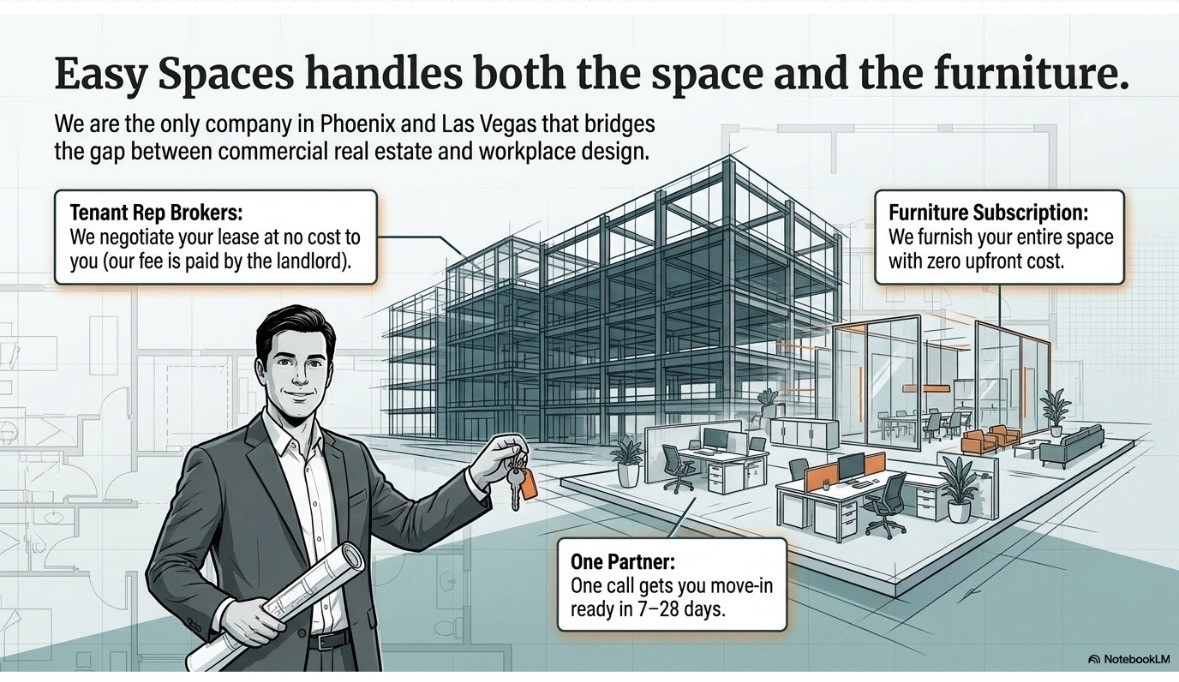
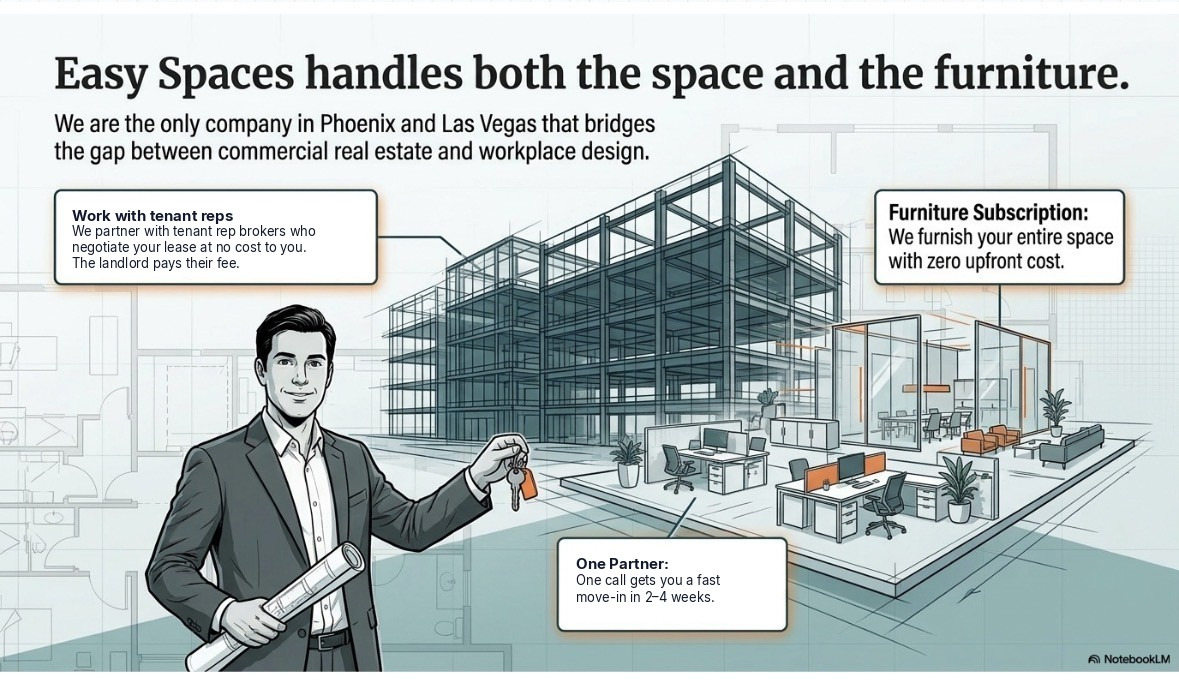
Apply approved wording for partners, title, timing, and markets.
Tenant representation is partner language, Jason is President, move-in is 2-4 weeks, and San Diego stays coming soon only.

Changed region(s): [[0.0611, 0.2771, 0.3053, 0.4003], [0.4885, 0.8006, 0.6718, 0.9238]]

diff --git a/obc-upload/index.html b/obc-upload/index.html
@@ -18,7 +18,7 @@
   <!-- Twitter Card -->
   <meta name="twitter:card" content="summary_large_image" />
   <meta name="twitter:title" content="Office Furniture Phoenix &amp; Las Vegas Cost Calculator | Easy Spaces" />
-  <meta name="twitter:description" content="Free calculator for Phoenix &amp; Las Vegas office furniture costs. From $349/month, move-in ready in 7–28 days." />
+  <meta name="twitter:description" content="Free calculator for Phoenix &amp; Las Vegas office furniture costs. From $349/month, with fast move-in in 2–4 weeks." />
   <meta name="twitter:image" content="https://d8j0ntlcm91z4.cloudfront.net/user_3GsA31Z3eRAlWJgYCapkArEvSTP/hf_20260831_214707_02c96125-706b-4d26-a617-110c1a62c539.png" />
   <!-- Favicon -->
   <link rel="icon" href="/favicon.svg" type="image/svg+xml" />
@@ -74,8 +74,8 @@
       "url": "https://easyspaces.info",
       "telephone": "+14803821171",
       "email": "sales@easyspaces.info",
-      "description": "Office furniture subscription and commercial real estate tenant representation for Phoenix and Las Vegas businesses.",
-      "areaServed": ["Phoenix, AZ", "Las Vegas, NV", "Gilbert, AZ", "Scottsdale, AZ", "San Diego, CA"],
+      "description": "Office furniture subscriptions and commercial real estate advisory for Phoenix and Las Vegas businesses.",
+      "areaServed": ["Phoenix, AZ", "Las Vegas, NV"],
       "priceRange": "$$",
       "sameAs": ["https://officebudgetcalculator.com/"]
     },
@@ -85,8 +85,8 @@
       "mainEntity": [
         { "@type": "Question", "name": "How much does office furniture cost in Phoenix?", "acceptedAnswer": { "@type": "Answer", "text": "Based on 1,833+ installations across the Phoenix Metro, purchasing office furniture averages $20 per square foot. A 3,000 sq ft office typically costs $60,000 to furnish outright. With an Easy Spaces subscription, that same space runs $0.35–$0.87 per square foot per month depending on term length, with zero upfront cost." } },
         { "@type": "Question", "name": "Is office furniture rental cheaper than buying?", "acceptedAnswer": { "@type": "Answer", "text": "For most growing businesses, a subscription is significantly cheaper in the first 2–5 years because there is no upfront capital expense. Easy Spaces subscriptions start at $349/month and include delivery, setup, and free removal at lease end." } },
-        { "@type": "Question", "name": "How fast can I get a furnished office in Las Vegas?", "acceptedAnswer": { "@type": "Answer", "text": "Easy Spaces delivers fully furnished offices in 7–28 days in the Las Vegas Metro. This includes space planning, 2D/3D renderings, delivery, installation, and white-glove setup." } },
-        { "@type": "Question", "name": "What is tenant rep and does it cost anything?", "acceptedAnswer": { "@type": "Answer", "text": "Tenant representation means Easy Spaces negotiates your office lease on your behalf. The service is completely free to you — the landlord pays our fee. We help you find the right space and align your lease term with your furniture subscription." } }
+        { "@type": "Question", "name": "How fast can I get a furnished office in Las Vegas?", "acceptedAnswer": { "@type": "Answer", "text": "Easy Spaces delivers fully furnished offices with a fast move-in in 2–4 weeks in the Las Vegas Metro. This includes space planning, 2D/3D renderings, delivery, installation, and white-glove setup." } },
+        { "@type": "Question", "name": "What is tenant rep and does it cost anything?", "acceptedAnswer": { "@type": "Answer", "text": "We work with tenant rep brokers who negotiate your office lease on your behalf. The service is completely free to you. The landlord pays their fee. We help you find the right space and align your lease term with your furniture subscription." } }
       ]
     }
   ]
@@ -396,8 +396,8 @@
         <p style="font-size:0.75rem;color:rgba(255,255,255,0.75);margin-top:0.25rem;">Starting at /month</p>
       </div>
       <div style="padding:1.25rem 1rem;text-align:center;border-right:1px solid rgba(255,255,255,0.15);">
-        <p style="font-family:'Barlow',sans-serif;font-weight:900;font-size:1.875rem;color:white;line-height:1.1;">7–28</p>
-        <p style="font-size:0.75rem;color:rgba(255,255,255,0.75);margin-top:0.25rem;">Days to move-in ready</p>
+        <p style="font-family:'Barlow',sans-serif;font-weight:900;font-size:1.875rem;color:white;line-height:1.1;">2–4</p>
+        <p style="font-size:0.75rem;color:rgba(255,255,255,0.75);margin-top:0.25rem;">Weeks to move in</p>
       </div>
       <div style="padding:1.25rem 1rem;text-align:center;border-right:1px solid rgba(255,255,255,0.15);">
         <p style="font-family:'Barlow',sans-serif;font-weight:900;font-size:1.875rem;color:white;line-height:1.1;">26,923+</p>
@@ -457,7 +457,7 @@
           We're the only company in Phoenix and Las Vegas that helps you find the right office space AND gets it fully furnished before your team walks in on day one.
         </p>
         <p style="color:#374151;line-height:1.75;margin-bottom:2rem;">
-          As licensed tenant rep brokers we negotiate your lease on your behalf, at no cost to you. Then we furnish your entire space through our flexible subscription so you're not writing a massive check before you've made a single dollar in your new office.
+          We partner with tenant rep brokers who negotiate your lease on your behalf, at no cost to you. Then we furnish your entire space through our flexible subscription so you're not writing a massive check before you've made a single dollar in your new office.
         </p>
         <p style="font-size:1.125rem;font-weight:700;color:#1B7A7A;font-family:'Barlow',sans-serif;">
           One company. One call. Fully move-in ready.
@@ -466,7 +466,7 @@
       <div class="reveal" style="position:relative;border-radius:1rem;overflow:hidden;aspect-ratio:1179/682;box-shadow:0 4px 24px rgba(0,0,0,0.1);">
         <picture>
           <source srcset="assets/office-setup.webp" type="image/webp" />
-          <img src="assets/office-setup.jpg" alt="Easy Spaces handles both the space and the furniture - tenant rep brokers negotiate your lease at no cost, furniture subscription furnishes your space with zero upfront cost, one partner gets you move-in ready in 7-28 days" style="width:100%;height:100%;object-fit:contain;background:white;" loading="lazy" width="1179" height="682" />
+          <img src="assets/office-setup.jpg" alt="Three-panel graphic: work with tenant reps at no cost to you, a furniture subscription with zero upfront cost, and one partner for a fast move-in in 2–4 weeks." style="width:100%;height:100%;object-fit:contain;background:white;" loading="lazy" width="1179" height="682" />
         </picture>
       </div>
     </div>
@@ -652,7 +652,7 @@
     <!-- Post-calculator CTA -->
     <div style="text-align:center;margin-top:3rem;" class="reveal">
       <h3 class="es-subheadline" style="color:white;font-size:1.5rem;margin-bottom:0.5rem;">Get a Free Consultation from One of Our Specialists</h3>
-      <p style="color:rgba(255,255,255,0.7);margin-bottom:0.5rem;max-width:32rem;margin-left:auto;margin-right:auto;line-height:1.7;">Your numbers are ready. Now let's make them real. Our licensed tenant rep brokers will review your results, validate your budget, and help you find the right space - at no cost to you.</p>
+      <p style="color:rgba(255,255,255,0.7);margin-bottom:0.5rem;max-width:32rem;margin-left:auto;margin-right:auto;line-height:1.7;">Your numbers are ready. Now let's make them real. We work with tenant reps who will review your results, validate your budget, and help you find the right space, at no cost to you.</p>
       <p style="color:rgba(255,255,255,0.5);font-size:0.875rem;font-style:italic;max-width:28rem;margin:0 auto 1.5rem;line-height:1.6;">Phoenix and Las Vegas office space moves fast. The sooner we connect, the more options you'll have.</p>
       <div style="display:flex;flex-wrap:wrap;gap:1rem;justify-content:center;">
         <a href="https://calendly.com/interioravenue/website-inquiry" target="_blank" rel="noopener noreferrer" class="es-btn-primary">
@@ -711,8 +711,8 @@
               <svg width="20" height="20" viewBox="0 0 24 24" fill="none" stroke="currentColor" stroke-width="2" stroke-linecap="round" stroke-linejoin="round"><path d="M3 9l9-7 9 7v11a2 2 0 01-2 2H5a2 2 0 01-2-2z"/><polyline points="9 22 9 12 15 12 15 22"/></svg>
             </div>
             <div>
-              <p style="font-family:'Barlow',sans-serif;font-weight:700;font-size:0.95rem;color:white;margin-bottom:0.25rem;">Tenant Rep at No Cost</p>
-              <p style="font-size:0.85rem;color:rgba(255,255,255,0.65);line-height:1.6;">As licensed tenant rep brokers, we negotiate your lease on your behalf. Our fee is paid by the landlord - you pay nothing.</p>
+              <p style="font-family:'Barlow',sans-serif;font-weight:700;font-size:0.95rem;color:white;margin-bottom:0.25rem;">Tenant Rep Partners, at No Cost</p>
+              <p style="font-size:0.85rem;color:rgba(255,255,255,0.65);line-height:1.6;">We partner with tenant rep brokers who negotiate your lease on your behalf. Their fee is paid by the landlord, and you pay nothing.</p>
             </div>
           </div>
           <div style="display:flex;gap:1rem;">
@@ -729,7 +729,7 @@
           <div style="width:44px;height:44px;border-radius:50%;background:#E8621A;display:flex;align-items:center;justify-content:center;font-family:'Barlow',sans-serif;font-weight:900;color:white;font-size:1.1rem;">JB</div>
           <div>
             <p style="font-family:'Barlow',sans-serif;font-weight:700;font-size:0.9rem;color:white;">Jason Bowman</p>
-            <p style="font-size:0.8rem;color:rgba(255,255,255,0.55);">Founder, Easy Spaces</p>
+            <p style="font-size:0.8rem;color:rgba(255,255,255,0.55);">President, Easy Spaces</p>
           </div>
         </div>
       </div>
@@ -855,7 +855,7 @@
         </div>
         <p style="font-family:'Barlow',sans-serif;font-weight:900;font-size:2rem;color:rgba(27,122,122,0.15);line-height:1;margin-bottom:0.5rem;">02</p>
         <h3 style="font-family:'Barlow',sans-serif;font-weight:800;font-size:1rem;color:#12192C;margin-bottom:0.75rem;">We Find Your Space</h3>
-        <p style="font-size:0.875rem;color:#6B7280;line-height:1.65;">We search the Phoenix and Las Vegas markets, present you with the best options, and negotiate your lease on your behalf. Our tenant rep service costs you nothing.</p>
+        <p style="font-size:0.875rem;color:#6B7280;line-height:1.65;">We search the Phoenix and Las Vegas markets and present the best options. We partner with tenant rep brokers, and that representation costs you nothing.</p>
       </div>
       <div class="reveal" style="background:white;border-radius:1rem;padding:1.5rem;text-align:center;box-shadow:0 2px 12px rgba(0,0,0,0.06);">
         <div style="width:56px;height:56px;border-radius:50%;background:#1B7A7A;display:flex;align-items:center;justify-content:center;margin:0 auto 1rem;color:white;">
@@ -1005,7 +1005,7 @@
           <h3 style="font-family:'Barlow',sans-serif;font-weight:900;color:#12192C;font-size:1.2rem;line-height:1.3;margin-bottom:1rem;">CRE Landlord Leases Vacant Space 3x Faster with Furnished Option</h3>
           <p style="font-size:0.875rem;color:#6B7280;line-height:1.75;margin-bottom:1.5rem;">A Las Vegas property manager had a 4,200 sq ft suite sitting vacant for 7 months. After partnering with Easy Spaces to offer a fully furnished lease option, they had a signed tenant within 18 days. The furnished presentation eliminated the tenant's furniture procurement barrier entirely - the deal closed at asking rate with no concessions.</p>
           <div class="grid-3" style="gap:0.75rem;">
-            <div style="background:#F4F6F8;border-radius:0.75rem;padding:0.75rem;text-align:center;"><p style="font-family:'Barlow',sans-serif;font-weight:900;font-size:1.125rem;color:#1B7A7A;line-height:1.1;">18 Days</p><p style="font-size:0.75rem;color:#9CA3AF;margin-top:0.25rem;">Vacancy Duration</p></div>
+            <div style="background:#F4F6F8;border-radius:0.75rem;padding:0.75rem;text-align:center;"><p style="font-family:'Barlow',sans-serif;font-weight:900;font-size:1.125rem;color:#1B7A7A;line-height:1.1;">18 Days</p><p style="font-size:0.75rem;color:#9CA3AF;margin-top:0.25rem;">Time to signed tenant</p></div>
             <div style="background:#F4F6F8;border-radius:0.75rem;padding:0.75rem;text-align:center;"><p style="font-family:'Barlow',sans-serif;font-weight:900;font-size:1.125rem;color:#1B7A7A;line-height:1.1;">$0</p><p style="font-size:0.75rem;color:#9CA3AF;margin-top:0.25rem;">Concessions Given</p></div>
             <div style="background:#F4F6F8;border-radius:0.75rem;padding:0.75rem;text-align:center;"><p style="font-family:'Barlow',sans-serif;font-weight:900;font-size:1.125rem;color:#1B7A7A;line-height:1.1;">Full Ask</p><p style="font-size:0.75rem;color:#9CA3AF;margin-top:0.25rem;">Lease Rate</p></div>
           </div>
@@ -1072,7 +1072,7 @@
         Stop overpaying. Stop waiting. Stop juggling vendors. One call with Easy Spaces changes everything.
       </p>
       <p style="color:rgba(255,255,255,0.5);font-size:0.875rem;margin-bottom:2.5rem;max-width:400px;margin-left:auto;margin-right:auto;">
-        Subscriptions from $349/month. Move-in ready in 7–28 days. Zero upfront cost.
+        Subscriptions from $349/month. Move in fast, in 2–4 weeks. Zero upfront cost.
       </p>
       <div style="display:flex;flex-wrap:wrap;gap:1rem;justify-content:center;">
         <a href="https://calendly.com/interioravenue/website-inquiry" target="_blank" rel="noopener noreferrer" class="es-btn-primary" style="font-size:1.05rem;padding:1rem 2rem;">
@@ -1099,13 +1099,13 @@
         <img src="https://d2xsxph8kpxj0f.cloudfront.net/manus-storage/LogoEasySpaces_ced81977.png" alt="Easy Spaces" style="height:44px;width:auto;margin-bottom:1rem;" onerror="this.style.display='none'" />
         <p style="color:rgba(255,255,255,0.55);font-size:0.875rem;line-height:1.7;margin-bottom:1rem;">Furnish Your Growth. Office furniture subscriptions and commercial real estate advisory for Phoenix and Las Vegas businesses.</p>
         <p style="font-family:'Barlow',sans-serif;font-weight:700;font-size:0.8rem;color:rgba(255,255,255,0.35);text-transform:uppercase;letter-spacing:0.1em;">Locations</p>
-        <p style="color:rgba(255,255,255,0.55);font-size:0.875rem;margin-top:0.25rem;">Gilbert, AZ · Phoenix, AZ · Las Vegas, NV · San Diego, CA</p>
+        <p style="color:rgba(255,255,255,0.55);font-size:0.875rem;margin-top:0.25rem;">Gilbert, AZ · Phoenix, AZ · Las Vegas, NV</p>
       </div>
       <div>
         <p style="font-family:'Barlow',sans-serif;font-weight:700;font-size:0.8rem;color:rgba(255,255,255,0.35);text-transform:uppercase;letter-spacing:0.1em;margin-bottom:1rem;">Services</p>
         <div style="display:flex;flex-direction:column;gap:0.5rem;">
           <a href="https://calendly.com/interioravenue/website-inquiry" target="_blank" rel="noopener noreferrer" style="color:rgba(255,255,255,0.55);font-size:0.875rem;transition:color 150ms;">Office Furniture Subscription</a>
-          <a href="https://calendly.com/interioravenue/website-inquiry" target="_blank" rel="noopener noreferrer" style="color:rgba(255,255,255,0.55);font-size:0.875rem;transition:color 150ms;">Tenant Rep / Lease Negotiation</a>
+          <a href="https://calendly.com/interioravenue/website-inquiry" target="_blank" rel="noopener noreferrer" style="color:rgba(255,255,255,0.55);font-size:0.875rem;transition:color 150ms;">Tenant Rep Partners</a>
           <a href="https://calendly.com/interioravenue/website-inquiry" target="_blank" rel="noopener noreferrer" style="color:rgba(255,255,255,0.55);font-size:0.875rem;transition:color 150ms;">Space Planning &amp; 3D Renderings</a>
           <a href="https://calendly.com/interioravenue/website-inquiry" target="_blank" rel="noopener noreferrer" style="color:rgba(255,255,255,0.55);font-size:0.875rem;transition:color 150ms;">Furnished Lease Solutions for Landlords</a>
           <a href="https://calendly.com/interioravenue/website-inquiry" target="_blank" rel="noopener noreferrer" style="color:rgba(255,255,255,0.55);font-size:0.875rem;transition:color 150ms;">Office Relocation Services</a>
@@ -1135,7 +1135,7 @@
         <a href="/privacy/" style="color:rgba(255,255,255,0.4);font-size:0.8rem;">Privacy Policy</a>
         <a href="/terms/" style="color:rgba(255,255,255,0.4);font-size:0.8rem;">Terms &amp; Disclaimer</a>
       </div>
-      <p style="color:rgba(255,255,255,0.3);font-size:0.8rem;">Phoenix · Las Vegas · Gilbert · San Diego</p>
+      <p style="color:rgba(255,255,255,0.3);font-size:0.8rem;">Phoenix · Las Vegas · Gilbert</p>
     </div>
   </div>
 </footer>

diff --git a/index.html b/index.html
@@ -21,7 +21,7 @@
   <!-- Twitter Card -->
   <meta name="twitter:card" content="summary_large_image" />
   <meta name="twitter:title" content="Office Furniture Phoenix &amp; Las Vegas Cost Calculator | Easy Spaces" />
-  <meta name="twitter:description" content="Free calculator for Phoenix &amp; Las Vegas office furniture costs. From $349/month, move-in ready in 7–28 days." />
+  <meta name="twitter:description" content="Free calculator for Phoenix &amp; Las Vegas office furniture costs. From $349/month, with fast move-in in 2–4 weeks." />
   <meta name="twitter:image" content="https://officebudgetcalculator.com/assets/og-image.jpg" />
   <meta name="twitter:image:alt" content="Easy Spaces office furniture cost calculator for Phoenix and Las Vegas. Compare buying, rent-to-own, and subscription." />
   <!-- Favicon -->
@@ -69,7 +69,7 @@
         "telephone": "+14803821171",
         "email": "sales@easyspaces.info",
         "description": "Office furniture subscriptions and commercial real estate advisory for Phoenix and Las Vegas businesses.",
-        "areaServed": ["Phoenix, AZ", "Gilbert, AZ", "Las Vegas, NV", "San Diego, CA"],
+        "areaServed": ["Phoenix, AZ", "Las Vegas, NV"],
         "logo": {
           "@type": "ImageObject",
           "url": "https://officebudgetcalculator.com/assets/apple-touch-icon.png",
@@ -421,8 +421,8 @@
         <p style="font-size:0.75rem;color:rgba(255,255,255,0.75);margin-top:0.25rem;">Starting at /month</p>
       </div>
       <div style="padding:1.25rem 1rem;text-align:center;border-right:1px solid rgba(255,255,255,0.15);">
-        <p style="font-family:'Barlow',sans-serif;font-weight:900;font-size:1.875rem;color:white;line-height:1.1;">7–28</p>
-        <p style="font-size:0.75rem;color:rgba(255,255,255,0.75);margin-top:0.25rem;">Days to move-in ready</p>
+        <p style="font-family:'Barlow',sans-serif;font-weight:900;font-size:1.875rem;color:white;line-height:1.1;">2–4</p>
+        <p style="font-size:0.75rem;color:rgba(255,255,255,0.75);margin-top:0.25rem;">Weeks to move in</p>
       </div>
       <div style="padding:1.25rem 1rem;text-align:center;border-right:1px solid rgba(255,255,255,0.15);">
         <p style="font-family:'Barlow',sans-serif;font-weight:900;font-size:1.875rem;color:white;line-height:1.1;">26,923+</p>
@@ -482,7 +482,7 @@
           We're the only company in Phoenix and Las Vegas that helps you find the right office space AND gets it fully furnished before your team walks in on day one.
         </p>
         <p style="color:#374151;line-height:1.75;margin-bottom:2rem;">
-          As licensed tenant rep brokers we negotiate your lease on your behalf, at no cost to you. Then we furnish your entire space through our flexible subscription so you're not writing a massive check before you've made a single dollar in your new office.
+          We partner with tenant rep brokers who negotiate your lease on your behalf, at no cost to you. Then we furnish your entire space through our flexible subscription so you're not writing a massive check before you've made a single dollar in your new office.
         </p>
         <p style="font-size:1.125rem;font-weight:700;color:#1B7A7A;font-family:'Barlow',sans-serif;">
           One company. One call. Fully move-in ready.
@@ -491,7 +491,7 @@
       <div class="reveal" style="position:relative;border-radius:1rem;overflow:hidden;aspect-ratio:1179/682;box-shadow:0 4px 24px rgba(0,0,0,0.1);">
         <picture>
           <source srcset="assets/office-setup.webp" type="image/webp" />
-          <img src="assets/office-setup.jpg" alt="Three-panel graphic: work with tenant reps at no cost to you, a furniture subscription with zero upfront cost, and one partner for move-in in 7-28 days." style="width:100%;height:100%;object-fit:contain;background:white;" loading="lazy" width="1179" height="682" />
+          <img src="assets/office-setup.jpg" alt="Three-panel graphic: work with tenant reps at no cost to you, a furniture subscription with zero upfront cost, and one partner for a fast move-in in 2–4 weeks." style="width:100%;height:100%;object-fit:contain;background:white;" loading="lazy" width="1179" height="682" />
         </picture>
       </div>
     </div>
@@ -677,7 +677,7 @@
     <!-- Post-calculator CTA -->
     <div style="text-align:center;margin-top:3rem;" class="reveal">
       <h3 class="es-subheadline" style="color:white;font-size:1.5rem;margin-bottom:0.5rem;">Get a Free Consultation from One of Our Specialists</h3>
-      <p style="color:rgba(255,255,255,0.7);margin-bottom:0.5rem;max-width:32rem;margin-left:auto;margin-right:auto;line-height:1.7;">Your numbers are ready. Now let's make them real. Our licensed tenant rep brokers will review your results, validate your budget, and help you find the right space - at no cost to you.</p>
+      <p style="color:rgba(255,255,255,0.7);margin-bottom:0.5rem;max-width:32rem;margin-left:auto;margin-right:auto;line-height:1.7;">Your numbers are ready. Now let's make them real. We work with tenant reps who will review your results, validate your budget, and help you find the right space, at no cost to you.</p>
       <p style="color:rgba(255,255,255,0.5);font-size:0.875rem;font-style:italic;max-width:28rem;margin:0 auto 1.5rem;line-height:1.6;">Phoenix and Las Vegas office space moves fast. The sooner we connect, the more options you'll have.</p>
       <div style="display:flex;flex-wrap:wrap;gap:1rem;justify-content:center;">
         <a href="https://calendly.com/interioravenue/website-inquiry" target="_blank" rel="noopener noreferrer" class="es-btn-primary">
@@ -736,8 +736,8 @@
               <svg width="20" height="20" viewBox="0 0 24 24" fill="none" stroke="currentColor" stroke-width="2" stroke-linecap="round" stroke-linejoin="round"><path d="M3 9l9-7 9 7v11a2 2 0 01-2 2H5a2 2 0 01-2-2z"/><polyline points="9 22 9 12 15 12 15 22"/></svg>
             </div>
             <div>
-              <p style="font-family:'Barlow',sans-serif;font-weight:700;font-size:0.95rem;color:white;margin-bottom:0.25rem;">Tenant Rep at No Cost</p>
-              <p style="font-size:0.85rem;color:rgba(255,255,255,0.65);line-height:1.6;">As licensed tenant rep brokers, we negotiate your lease on your behalf. Our fee is paid by the landlord - you pay nothing.</p>
+              <p style="font-family:'Barlow',sans-serif;font-weight:700;font-size:0.95rem;color:white;margin-bottom:0.25rem;">Tenant Rep Partners, at No Cost</p>
+              <p style="font-size:0.85rem;color:rgba(255,255,255,0.65);line-height:1.6;">We partner with tenant rep brokers who negotiate your lease on your behalf. Their fee is paid by the landlord, and you pay nothing.</p>
             </div>
           </div>
           <div style="display:flex;gap:1rem;">
@@ -754,7 +754,7 @@
           <div style="width:44px;height:44px;border-radius:50%;background:#E8621A;display:flex;align-items:center;justify-content:center;font-family:'Barlow',sans-serif;font-weight:900;color:white;font-size:1.1rem;">JB</div>
           <div>
             <p style="font-family:'Barlow',sans-serif;font-weight:700;font-size:0.9rem;color:white;">Jason Bowman</p>
-            <p style="font-size:0.8rem;color:rgba(255,255,255,0.55);">Founder, Easy Spaces</p>
+            <p style="font-size:0.8rem;color:rgba(255,255,255,0.55);">President, Easy Spaces</p>
           </div>
         </div>
       </div>
@@ -880,7 +880,7 @@
         </div>
         <p style="font-family:'Barlow',sans-serif;font-weight:900;font-size:2rem;color:rgba(27,122,122,0.15);line-height:1;margin-bottom:0.5rem;">02</p>
         <h3 style="font-family:'Barlow',sans-serif;font-weight:800;font-size:1rem;color:#12192C;margin-bottom:0.75rem;">We Find Your Space</h3>
-        <p style="font-size:0.875rem;color:#6B7280;line-height:1.65;">We search the Phoenix and Las Vegas markets, present you with the best options, and negotiate your lease on your behalf. Our tenant rep service costs you nothing.</p>
+        <p style="font-size:0.875rem;color:#6B7280;line-height:1.65;">We search the Phoenix and Las Vegas markets and present the best options. We partner with tenant rep brokers, and that representation costs you nothing.</p>
       </div>
       <div class="reveal" style="background:white;border-radius:1rem;padding:1.5rem;text-align:center;box-shadow:0 2px 12px rgba(0,0,0,0.06);">
         <div style="width:56px;height:56px;border-radius:50%;background:#1B7A7A;display:flex;align-items:center;justify-content:center;margin:0 auto 1rem;color:white;">
@@ -1030,7 +1030,7 @@
           <h3 style="font-family:'Barlow',sans-serif;font-weight:900;color:#12192C;font-size:1.2rem;line-height:1.3;margin-bottom:1rem;">CRE Landlord Leases Vacant Space 3x Faster with Furnished Option</h3>
           <p style="font-size:0.875rem;color:#6B7280;line-height:1.75;margin-bottom:1.5rem;">A Las Vegas property manager had a 4,200 sq ft suite sitting vacant for 7 months. After partnering with Easy Spaces to offer a fully furnished lease option, they had a signed tenant within 18 days. The furnished presentation eliminated the tenant's furniture procurement barrier entirely - the deal closed at asking rate with no concessions.</p>
           <div class="grid-3" style="gap:0.75rem;">
-            <div style="background:#F4F6F8;border-radius:0.75rem;padding:0.75rem;text-align:center;"><p style="font-family:'Barlow',sans-serif;font-weight:900;font-size:1.125rem;color:#1B7A7A;line-height:1.1;">18 Days</p><p style="font-size:0.75rem;color:#4B5563;margin-top:0.25rem;">Vacancy Duration</p></div>
+            <div style="background:#F4F6F8;border-radius:0.75rem;padding:0.75rem;text-align:center;"><p style="font-family:'Barlow',sans-serif;font-weight:900;font-size:1.125rem;color:#1B7A7A;line-height:1.1;">18 Days</p><p style="font-size:0.75rem;color:#4B5563;margin-top:0.25rem;">Time to signed tenant</p></div>
             <div style="background:#F4F6F8;border-radius:0.75rem;padding:0.75rem;text-align:center;"><p style="font-family:'Barlow',sans-serif;font-weight:900;font-size:1.125rem;color:#1B7A7A;line-height:1.1;">$0</p><p style="font-size:0.75rem;color:#4B5563;margin-top:0.25rem;">Concessions Given</p></div>
             <div style="background:#F4F6F8;border-radius:0.75rem;padding:0.75rem;text-align:center;"><p style="font-family:'Barlow',sans-serif;font-weight:900;font-size:1.125rem;color:#1B7A7A;line-height:1.1;">Full Ask</p><p style="font-size:0.75rem;color:#4B5563;margin-top:0.25rem;">Lease Rate</p></div>
           </div>
@@ -1097,7 +1097,7 @@
         Stop overpaying. Stop waiting. Stop juggling vendors. One call with Easy Spaces changes everything.
       </p>
       <p style="color:rgba(255,255,255,0.5);font-size:0.875rem;margin-bottom:2.5rem;max-width:400px;margin-left:auto;margin-right:auto;">
-        Subscriptions from $349/month. Move-in ready in 7–28 days. Zero upfront cost.
+        Subscriptions from $349/month. Move in fast, in 2–4 weeks. Zero upfront cost.
       </p>
       <div style="display:flex;flex-wrap:wrap;gap:1rem;justify-content:center;">
         <a href="https://calendly.com/interioravenue/website-inquiry" target="_blank" rel="noopener noreferrer" class="es-btn-primary" style="font-size:1.05rem;padding:1rem 2rem;">
@@ -1124,13 +1124,13 @@
         <img src="/assets/logo.svg" alt="Easy Spaces" width="190" height="40" style="height:40px;width:190px;margin-bottom:1rem;" />
         <p style="color:rgba(255,255,255,0.55);font-size:0.875rem;line-height:1.7;margin-bottom:1rem;">Furnish Your Growth. Office furniture subscriptions and commercial real estate advisory for Phoenix and Las Vegas businesses.</p>
         <p style="font-family:'Barlow',sans-serif;font-weight:700;font-size:0.8rem;color:rgba(255,255,255,0.35);text-transform:uppercase;letter-spacing:0.1em;">Locations</p>
-        <p style="color:rgba(255,255,255,0.55);font-size:0.875rem;margin-top:0.25rem;">Gilbert, AZ · Phoenix, AZ · Las Vegas, NV · San Diego, CA</p>
+        <p style="color:rgba(255,255,255,0.55);font-size:0.875rem;margin-top:0.25rem;">Gilbert, AZ · Phoenix, AZ · Las Vegas, NV</p>
       </div>
       <div>
         <p style="font-family:'Barlow',sans-serif;font-weight:700;font-size:0.8rem;color:rgba(255,255,255,0.35);text-transform:uppercase;letter-spacing:0.1em;margin-bottom:1rem;">Services</p>
         <div style="display:flex;flex-direction:column;gap:0.5rem;">
           <a href="https://calendly.com/interioravenue/website-inquiry" target="_blank" rel="noopener noreferrer" style="color:rgba(255,255,255,0.55);font-size:0.875rem;transition:color 150ms;">Office Furniture Subscription</a>
-          <a href="https://calendly.com/interioravenue/website-inquiry" target="_blank" rel="noopener noreferrer" style="color:rgba(255,255,255,0.55);font-size:0.875rem;transition:color 150ms;">Tenant Rep / Lease Negotiation</a>
+          <a href="https://calendly.com/interioravenue/website-inquiry" target="_blank" rel="noopener noreferrer" style="color:rgba(255,255,255,0.55);font-size:0.875rem;transition:color 150ms;">Tenant Rep Partners</a>
           <a href="https://calendly.com/interioravenue/website-inquiry" target="_blank" rel="noopener noreferrer" style="color:rgba(255,255,255,0.55);font-size:0.875rem;transition:color 150ms;">Space Planning &amp; 3D Renderings</a>
           <a href="https://calendly.com/interioravenue/website-inquiry" target="_blank" rel="noopener noreferrer" style="color:rgba(255,255,255,0.55);font-size:0.875rem;transition:color 150ms;">Furnished Lease Solutions for Landlords</a>
           <a href="https://calendly.com/interioravenue/website-inquiry" target="_blank" rel="noopener noreferrer" style="color:rgba(255,255,255,0.55);font-size:0.875rem;transition:color 150ms;">Office Relocation Services</a>
@@ -1160,7 +1160,7 @@
         <a href="/privacy/" style="color:rgba(255,255,255,0.4);font-size:0.8rem;">Privacy Policy</a>
         <a href="/terms/" style="color:rgba(255,255,255,0.4);font-size:0.8rem;">Terms &amp; Disclaimer</a>
       </div>
-      <p style="color:rgba(255,255,255,0.3);font-size:0.8rem;">Phoenix · Las Vegas · Gilbert · San Diego</p>
+      <p style="color:rgba(255,255,255,0.3);font-size:0.8rem;">Phoenix · Las Vegas · Gilbert</p>
     </div>
   </div>
 </footer>

diff --git a/obc-upload/terms/index.html b/obc-upload/terms/index.html
@@ -49,7 +49,7 @@
     <p>Any case studies, testimonials, or client results referenced on the Site describe specific past projects and are not a guarantee of similar results for your business.</p>
 
     <h2>No Professional Advice</h2>
-    <p>Nothing on the Site constitutes legal, financial, tax, or real estate advice. Tenant representation and lease negotiation services are provided under a separate written agreement with the relevant licensed brokerage; nothing on this Site creates a brokerage or agency relationship.</p>
+    <p>Nothing on the Site constitutes legal, financial, tax, or real estate advice. Tenant representation and lease negotiation services are provided by partner tenant rep brokers under a separate written agreement with those brokers. Nothing on this Site creates a brokerage or agency relationship.</p>
 
     <h2>Scheduling &amp; Third-Party Tools</h2>
     <p>Consultations are booked through Calendly, a third-party scheduling service. Your use of Calendly is subject to Calendly's own terms and privacy policy. Easy Spaces is not responsible for the availability or performance of third-party tools used on this Site.</p>

diff --git a/terms/index.html b/terms/index.html
@@ -62,7 +62,7 @@
     <p>Any case studies, testimonials, or client results referenced on the Site describe specific past projects and are not a guarantee of similar results for your business.</p>
 
     <h2>No Professional Advice</h2>
-    <p>Nothing on the Site constitutes legal, financial, tax, or real estate advice. Tenant representation and lease negotiation services are provided under a separate written agreement with the relevant licensed brokerage; nothing on this Site creates a brokerage or agency relationship.</p>
+    <p>Nothing on the Site constitutes legal, financial, tax, or real estate advice. Tenant representation and lease negotiation services are provided by partner tenant rep brokers under a separate written agreement with those brokers. Nothing on this Site creates a brokerage or agency relationship.</p>
 
     <h2>Scheduling &amp; Third-Party Tools</h2>
     <p>Consultations are booked through Calendly, a third-party scheduling service. Your use of Calendly is subject to Calendly's own terms and privacy policy. Easy Spaces is not responsible for the availability or performance of third-party tools used on this Site.</p>

diff --git a/SEO-AUDIT.md b/SEO-AUDIT.md
@@ -126,7 +126,7 @@ Examples under ~44px (320px unless noted):
 
 Lighthouse label audit: the range and number inputs are not tied to their visible labels with `for` / `id`.
 
-The solution image alt is a keyword sentence, not a description of the graphic. The graphic itself reads "Work with tenant reps", "Furniture subscription", and "7-28 days". The tracking pixel has no `alt`.
+The solution image alt is a keyword sentence, not a description of the graphic. The graphic itself had a move-in timing line that was later rewritten. The tracking pixel has no `alt`.
 
 ### Performance (Lighthouse 12, live URL, 2026-09-25)
 
@@ -178,18 +178,24 @@ No external anchor returned a 4xx or 5xx. The broken resource is the logo image.
 
 - Intentional `noindex` plus immediate redirect to the homepage. Leave the noindex in place. Keep them out of the sitemap.
 
-## Flagged for owner, not changed
+## Approved wording, applied
 
-- The page says move-in in **7–28 days** (stats bar, final CTA, image, Twitter description, FAQ schema). Preferred language supplied for this audit is "fast move-in in 2–4 weeks". Left as written.
-- Tenant-rep wording is inconsistent. Hero pill and the solution graphic say "Work with tenant reps". Other sentences say "As licensed tenant rep brokers we negotiate your lease" (solution section, calculator CTA, and the "What You Get Back" card). Terms say tenant representation is provided under a separate written agreement with the relevant licensed brokerage. Not rewritten.
-- Jason Bowman is labeled **Founder** on the page. New copy in this project uses **President** only. The visible title was not changed.
-- Footer lists San Diego as a location. The calculator lists San Diego as "Coming Soon".
-- Las Vegas case study label says "Vacancy Duration: 18 Days". The paragraph says the suite was vacant for 7 months and then leased within 18 days.
+Jason approved the wording items below. Applied on `index.html`, `terms/index.html`, the matching `obc-upload` copies, JSON-LD, Twitter text, image alt, and the solution graphic captions. Privacy has none of this text. Calculator math, prices, CTAs, and layout were not changed. GA4 ID `G-3MG1RK27XV` was left as written.
+
+- Tenant representation is now partner language: we work with tenant reps, and partner tenant rep brokers negotiate the lease. The landlord-paid fee stays, attributed to those partners. Terms say the same services are provided by partner tenant rep brokers under a separate written agreement, and the site creates no brokerage or agency relationship.
+- Jason Bowman is labeled President, Easy Spaces, including the card under his name. Don Brewer's testimonial still uses his own role title. That line does not label Jason.
+- Move-in timing is "fast move-in in 2–4 weeks". The stats bar reads "2–4" / "Weeks to move in". The solution graphic caption reads "One call gets you a fast move-in in 2–4 weeks."
+- San Diego is only the calculator option "San Diego — Coming Soon". It is off the footer location lines. JSON-LD `areaServed` is Phoenix, AZ and Las Vegas, NV only. Gilbert stays as a showroom location in the footer, not as a served market in schema. Scottsdale stays only as a testimonial city.
+- Las Vegas case study: the paragraph says the suite sat vacant for 7 months, then had a signed tenant within 18 days after a furnished-lease offer. The stat still says 18 Days. The caption is now "Time to signed tenant". Neither number changed.
+
+## Still flagged, not changed
+
 - "1,833+" is used both as installations and as "Desks Installed".
 - Brand orange `#E8621A` (white text about 3.39:1) and teal `#1B7A7A` fail WCAG AA in several small or bold treatments. Decorative step numbers (`01`–`04`) are intentionally faint (about 1.2:1). Those colors were not recolored, because changing them would change the brand.
-- A source comment says to replace GA4 ID `G-3MG1RK27XV` before launch. The ID is the one in the live page. It was not changed. Confirm it is the production property.
+- A source comment says to confirm GA4 ID `G-3MG1RK27XV` before launch. The ID is the one in the live page. It was not changed.
 - No street address or hours are published, so LocalBusiness rich-result fields that need them stay omitted.
 - Enforce HTTPS and Search Console verification need the owner's GitHub Pages and Search Console access.
+- `obc-upload` LocalBusiness still has `priceRange` and a self `sameAs`. That copy is `noindex`. It was not part of this wording pass beyond the claims above.
 
 ## Files expected to change
 
@@ -214,6 +220,11 @@ No URL slugs will change, so no redirect fallback is required. GitHub Pages stil
 - `.nojekyll` added so GitHub Pages serves the files as static HTML.
 
 No live URL was renamed. No price, CTA, or calculator formula was edited.
+
+### Wording pass
+
+- Partner language replaced every sentence that presented Easy Spaces as the party negotiating the lease. Jason's card now says President. Move-in copy and the stats bar use 2–4 weeks. San Diego remains only as Coming Soon. The Las Vegas 18 Days caption is "Time to signed tenant".
+- `assets/office-setup.jpg` and the WebP copies in `assets/` and `obc-upload/assets/` had the same caption cards redrawn on the original photo. The rest of the graphic is unchanged.
 
 ## Verification results
 
@@ -303,6 +314,14 @@ After:
 - `/opt/cursor/artifacts/seo-after/measure.json`
 
 A second render pass on 2026-09-25, after the fixes were committed, confirmed the same homepage result: one H1, the title and description above, canonical and `og:image` on the apex, no robots meta, no image missing `alt`, overflow 0 and no controls under 44px at 320, 375, 390, 414, 768, 1280, and 1440. Calculator at 5,000 sq ft and 36 months still returned Buy `$100,000`, rent-to-own `$2,930.56`, subscription `$2,905.56`. Live production was still the pre-fix page (`og:image` still on CloudFront, HTTP still 200).
+
+## Wording verification (2026-09-25)
+
+- W3C Nu validator on `index.html`, `privacy/index.html`, and `terms/index.html`: 0 errors.
+- `html-validate` with the same inline-style exceptions as the earlier pass: 0 problems on those three pages. The noindex `obc-upload/index.html` still has its pre-existing head-pixel and unlabeled-input errors. Those were not introduced by this pass.
+- Homepage JSON-LD parses. Organization `areaServed` is Phoenix, AZ and Las Vegas, NV. The upload copy's LocalBusiness `areaServed` matches. One H1 on the homepage.
+- Local render: horizontal overflow 0 at 320, 375, and 1440. Solution image natural width 1179. Calculator at 5,000 sq ft and 36 months still returns Buy `$100,000`, rent-to-own `$2,930.56`, subscription `$2,905.56`, space `$8,750.00/mo`. San Diego still shows the coming-soon state.
+- Repo search excluding `patches/` and archives: the only remaining match for the title word is Don Brewer's testimonial line in `index.html` and `obc-upload/index.html`. It names his role at his company. It does not label Jason. GA4 ID `G-3MG1RK27XV` is unchanged.
 
 ## Search Console
 
